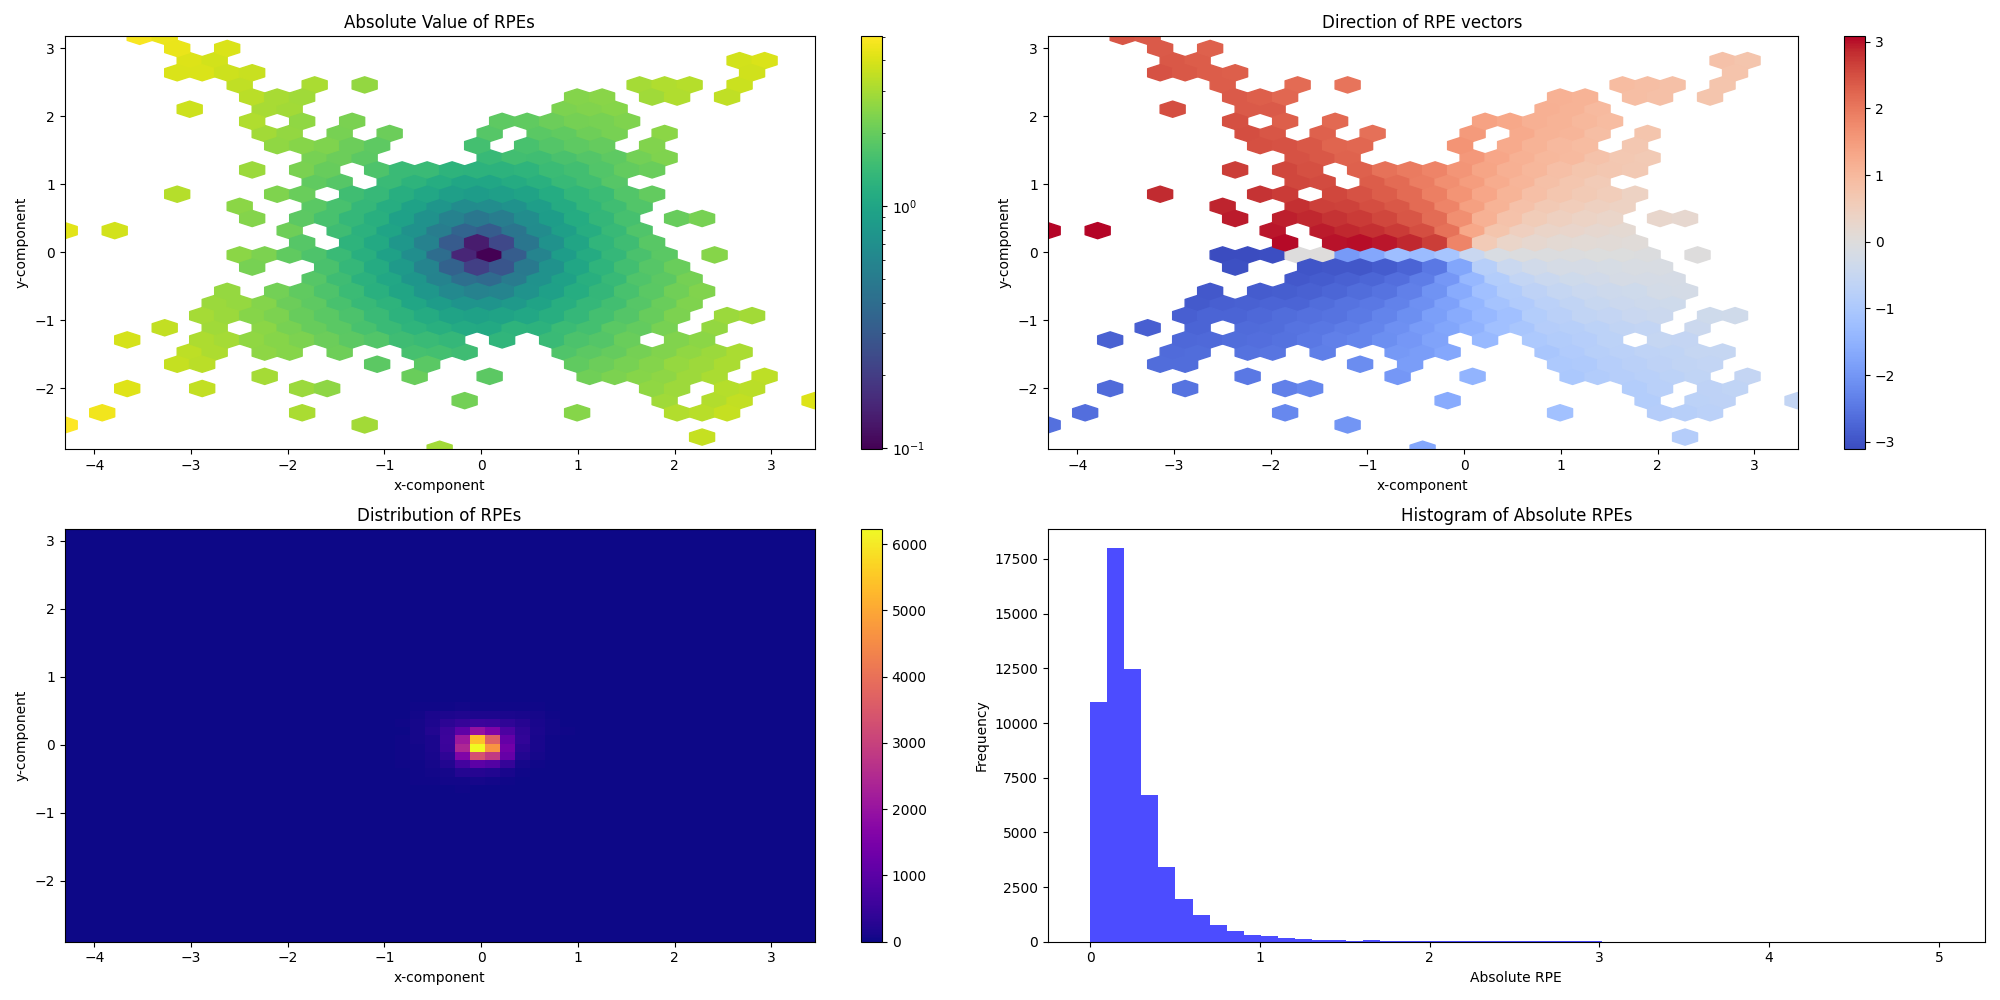
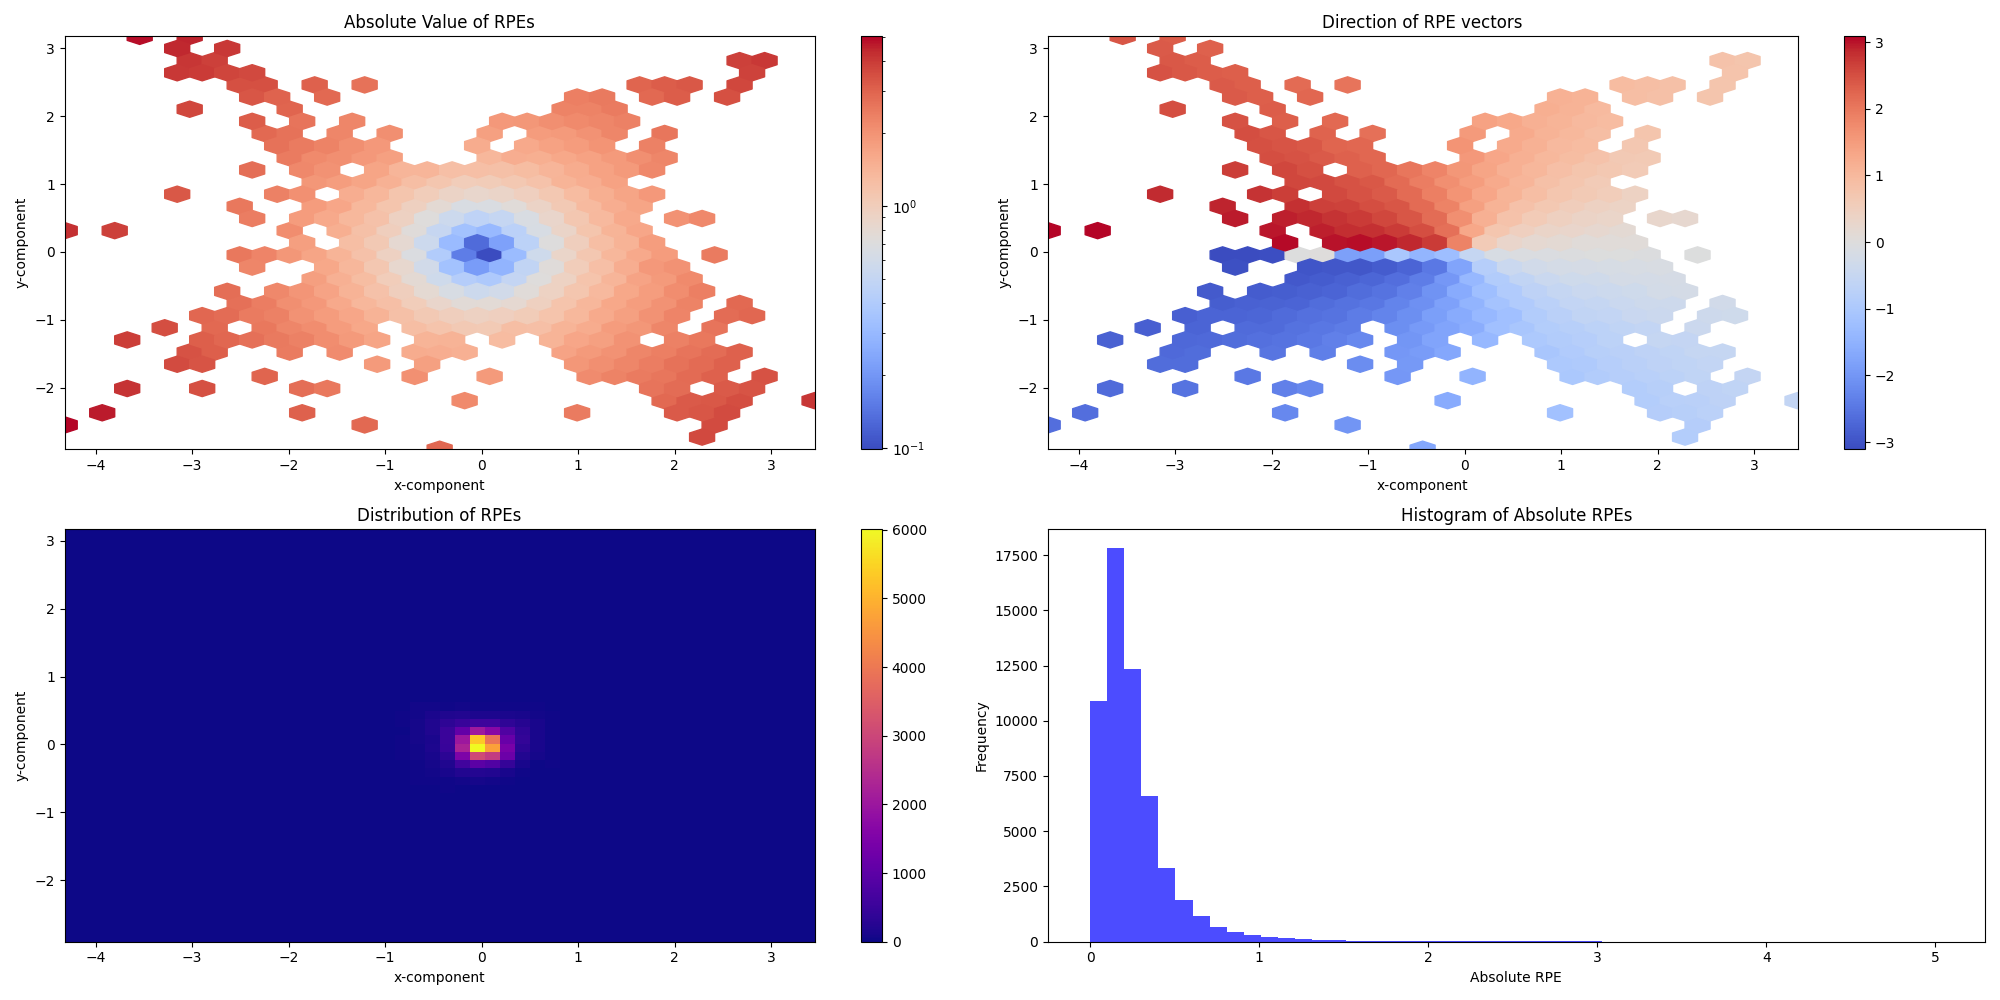
remove blurry img, remove some plotting functionality, svae new results

diff --git a/caliberation.py b/caliberation.py
@@ -4,6 +4,7 @@ import numpy as np
 import cv2 as cv
 import glob
 import matplotlib.pyplot as plt
+from datetime import datetime
 
 chessboardSize = (17, 28) # -1
 frameSize = (3976, 2652)
@@ -11,7 +12,11 @@ frameSize = (3976, 2652)
 #####CALIBERATION######
 
 # Termination criteria
-criteria = (cv.TERM_CRITERIA_EPS + cv.TERM_CRITERIA_MAX_ITER, 30, 0.001)
+#num of iteration: increase -> more refined results
+#num of epsilon: drecrease -> tightens the convergence criteria,refines the corner locations to a finer accuracy
+
+
+criteria = (cv.TERM_CRITERIA_EPS + cv.TERM_CRITERIA_MAX_ITER, 30, 0.001)  
 
 objp = np.zeros((chessboardSize[0] * chessboardSize[1], 3), np.float32)
 objp[:, :2] = np.mgrid[0:chessboardSize[0], 0:chessboardSize[1]].T.reshape(-1, 2)
@@ -21,16 +26,20 @@ objp *= size_of_chessboard_squares_mm
 objpoints = []  # 3D point in real world space
 imgpoints = []  # 2D points in image plane
 
-images = glob.glob('rechts_8bit_jpg_DS_0.5/*.jpg') ##PATH
+images = glob.glob('links_8bit_jpg_DS_0.5/*.jpg') ##PATH
 
 for image in images:
     img = cv.imread(image)
     gray = cv.cvtColor(img, cv.COLOR_BGR2GRAY)
 
+    # gray = cv.equalizeHist(gray)  # Equalize histogram to enhance contrast
+    # gray = cv.GaussianBlur(gray, (5, 5), 0) #Reduce noise
+
     ret, corners = cv.findChessboardCorners(gray, chessboardSize, None)
 
     if ret:
         objpoints.append(objp)
+        #subpixel
         corners2 = cv.cornerSubPix(gray, corners, (11, 11), (-1, -1), criteria)
         imgpoints.append(corners)
 
@@ -42,20 +51,37 @@ cv.destroyAllWindows()
 
 ret, cameraMatrix, dist, rvecs, tvecs = cv.calibrateCamera(objpoints, imgpoints, frameSize, None, None)
 
-# save camera calibration result as XML
-fs = cv.FileStorage("calibration.xml", cv.FILE_STORAGE_WRITE)
-fs.write("camera_matrix", cameraMatrix)
-fs.write("distortion_coefficients", dist)
-fs.write("image_height", frameSize[1])
-fs.write("image_width", frameSize[0])
-fs.release()
+#print("Distortion Coefficients Shape:", dist.shape)
+#print("Distortion Coefficients:", dist)
 
+# WRITE XML
+current_date = datetime.now().strftime("%Y-%m-%d")
+
+fs = cv.FileStorage("calibration.xml", cv.FILE_STORAGE_WRITE)
+fs.write("calibration_date", current_date)
+fs.startWriteStruct("camera_matrix", cv.FileNode_MAP)
+# Intrinsic Parameters
+fs.write("fx", cameraMatrix[0, 0]) # focal length of camera, x (pixel unit)
+fs.write("fy", cameraMatrix[1, 1]) # focal length of camera, y (pixel unit)
+fs.write("cx", cameraMatrix[0, 2]) # optical center coordinates of camera, x (pixel unit)
+fs.write("cy", cameraMatrix[1, 2]) # optical center coordinates of camera, y (pixel unit)
+fs.endWriteStruct()
+
+fs.startWriteStruct("distortion_coefficients", cv.FileNode_MAP)
+fs.write("k1", dist[0, 0]) #radial distortion coefficients
+fs.write("k2", dist[0, 1]) #radial distortion coefficients
+fs.write("k3", dist[0, 4]) #radial distortion coefficients, correction for severe distortion
+fs.write("p1", dist[0, 2]) #tangential distortion coefficients
+fs.write("p2", dist[0, 3]) #tangential distortion coefficients
+fs.endWriteStruct()
+
+fs.write("image_height", 3976)
+fs.write("image_width", 2652)
+
+fs.release()
 
 print("Camera matrix:\n", cameraMatrix)
 print("Distortion coefficients:\n", dist.flatten())
-
-# distortion coefficients 
-print("Distortion coefficients:", dist.flatten())
 
 # compute reprojection error
 def compute_reprojection_error(objpoints, imgpoints, cameraMatrix, dist,rvecs,tvecs):
@@ -82,7 +108,7 @@ print("Reprojection error:", reprojection_error)
 plt.figure(figsize=(10, 6))
 plt.plot(errors, marker='o', linestyle='',label='Individuel Reprojection Error')
 plt.axhline(y=reprojection_error, color='r', linestyle='-', label='Mean Reprojection Error')
-plt.title('Residual Plot: RPE')
+plt.title('RPE')
 plt.xlabel('Image Index')
 plt.ylabel('Reprojection Error')
 plt.legend()
@@ -90,63 +116,6 @@ plt.grid(True)
 plt.savefig('residual_plot_rpe.png')
 plt.show()
 
-h, w = frameSize
-
-y, x = np.mgrid[0:h:1, 0:w:1].astype(np.float32)
-pixel_grid = np.column_stack((x.ravel(), y.ravel()))
-
-pixel_grid = pixel_grid.reshape(-1, 1, 2)
-normalized_grid = cv.undistortPoints(pixel_grid, cameraMatrix, dist, None, cameraMatrix)
-
-map_x, map_y = normalized_grid[:,0,0], normalized_grid[:,0,1]
-map_x = map_x.reshape(h, w)
-map_y = map_y.reshape(h, w)
-
-fig, ax = plt.subplots(figsize=(10, 6))
-
-
-spacing = 100 
-for i in range(0, h, spacing):
-    ax.plot(range(w), [i] * w, color='blue', linestyle='--')  # horizontal lines, distorted
-for j in range(0, w, spacing):
-    ax.plot([j] * h, range(h), color='blue', linestyle='--')  # vertical lines
-
-#undistorted grid lines
-for i in range(0, h, spacing):
-    ax.plot(map_x[i, :], map_y[i, :], color='red')  # horizontal lines, undistorted
-for j in range(0, w, spacing):
-    ax.plot(map_x[:, j], map_y[:, j], color='red')  # vertical lines
-
-ax.set_xlim([0, w])
-ax.set_ylim([h, 0])
-ax.set_title('Grid Distortion and Correction Comparison')
-ax.set_xlabel('u (along X axis with {} pixels)'.format(w))
-ax.set_ylabel('v (along Y axis with {} pixels)'.format(h))
-
-
-plt.savefig('distortion_visualization.png')
-plt.show()
-
-# Undistorted Image Comparison
-def compare_images(orig_img, undist_img):
-    fig, axs = plt.subplots(1, 2, figsize=(12, 6))
-    axs[0].imshow(cv.cvtColor(orig_img, cv.COLOR_BGR2RGB))
-    axs[0].set_title('Original Distorted Image')
-    axs[0].axis('off')
-    axs[1].imshow(cv.cvtColor(undist_img, cv.COLOR_BGR2RGB))
-    axs[1].set_title('Undistorted Image')
-    axs[1].axis('off')
-    plt.savefig('distortion_vs.undistortion_img.png')
-    plt.show()
-
-# Load distorted image
-distorted_img = cv.imread('rechts_8bit_jpg_DS_0.5/DSC00003_DS_0.5.jpg') ###PATH
-if distorted_img is None:
-    print("Error: Failed to load the image.")
-else:
-    # Undistort the image
-    undistorted_img = cv.undistort(distorted_img, cameraMatrix, dist)
-    compare_images(distorted_img, undistorted_img)
 
 # compute_reprojection_error to return detailed error components for x and y for coefficient calculation
 def compute_detailed_reprojection_error(objpoints, imgpoints, cameraMatrix, dist):
@@ -177,9 +146,9 @@ def visualize_rpes(error_x, error_y):
 
     plt.figure(figsize=(20, 10))
 
-    # Absolute Value of RPEs
+    # absolute Value of RPEs
     ax1 = plt.subplot(2, 2, 1)
-    hb1 = plt.hexbin(error_x, error_y, C=error_magnitude, gridsize=30, cmap='viridis', bins='log')
+    hb1 = plt.hexbin(error_x, error_y, C=error_magnitude, gridsize=30, cmap='coolwarm', bins='log')
     plt.colorbar(hb1, ax=ax1)
     plt.title('Absolute Value of RPEs')
     plt.xlabel('x-component')
@@ -187,7 +156,7 @@ def visualize_rpes(error_x, error_y):
     ax1.set_xlim([min(error_x), max(error_x)])
     ax1.set_ylim([min(error_y), max(error_y)])
 
-    # Direction of RPE Vectors
+    # direction of RPE Vectors
     ax2 = plt.subplot(2, 2, 2)
     hb2 = plt.hexbin(error_x, error_y, C=error_direction, gridsize=30, cmap='coolwarm')
     plt.colorbar(hb2, ax=ax2)
@@ -197,7 +166,7 @@ def visualize_rpes(error_x, error_y):
     ax2.set_xlim([min(error_x), max(error_x)])
     ax2.set_ylim([min(error_y), max(error_y)])
 
-    # Distribution of RPEs
+    # distribution of RPEs
     ax3 = plt.subplot(2, 2, 3)
     hb3 = plt.hist2d(error_x, error_y, bins=50, cmap='plasma')
     plt.colorbar(hb3[3], ax=ax3)
@@ -207,7 +176,7 @@ def visualize_rpes(error_x, error_y):
     ax3.set_xlim([min(error_x), max(error_x)])
     ax3.set_ylim([min(error_y), max(error_y)])
 
-    # Histogram of Absolute RPEs
+    # histogram of Absolute RPEs
     ax4 = plt.subplot(2, 2, 4)
     plt.hist(error_magnitude, bins=50, color='blue', alpha=0.7)
     plt.title('Histogram of Absolute RPEs')
@@ -219,52 +188,3 @@ def visualize_rpes(error_x, error_y):
 
 visualize_rpes(error_x, error_y)
 
-#####VISUALIZATION COEFFICIENTS#####
-
-fs_read = cv.FileStorage("calibration.xml", cv.FILE_STORAGE_READ)
-cameraMatrix = fs_read.getNode("camera_matrix").mat()
-distCoeffs = fs_read.getNode("distortion_coefficients").mat()
-fs_read.release()
-
-
-print("Camera matrix:\n", cameraMatrix)
-print("Distortion coefficients:\n", distCoeffs.flatten())
-
-# grid of points
-step = 20
-w, h = 3976, 2652 
-x, y = np.meshgrid(range(0, w, step), range(0, h, step))
-pts = np.vstack((x.flatten(), y.flatten())).astype(np.float32).T
-
-
-def draw_grid(img, pts, color=(255,0, 0)):  #green
-    for i in range(pts.shape[0]):
-        pt = tuple(pts[i].astype(int))
-        cv.circle(img, pt, 3, color, -1)
-
-original_distCoeffs = distCoeffs.flatten()
-
-coeff_sets = [original_distCoeffs,  # Original coefficients
-              np.array([original_distCoeffs[0], original_distCoeffs[1], 0, 0, 0]), #radial distortion
-              ]
-for idx, coeffs in enumerate(coeff_sets):
-   
-    img = np.zeros((h, w, 3), dtype=np.uint8)
-
-
-    draw_grid(img, pts, color=(255, 255, 255))  # Original grid in blue
-
-    # apply distortion/undistortion to get the new grid points
-    pts_distorted = cv.undistortPoints(np.expand_dims(pts, axis=1), cameraMatrix, coeffs, None, cameraMatrix)
-    pts_distorted = pts_distorted.reshape(-1, 2)
-
-    # distorted/undistorted grid in blue
-    draw_grid(img, pts_distorted, color=(0, 0, 255))  # Distorted/Undistorted grid in red
-
-    coeffs_str = '_'.join([f"{c:.2e}" for c in coeffs]).replace('.', 'p').replace('-', 'm').replace('+', '')
-    plt.figure(figsize=(8, 6))
-    plt.imshow(img)
-    plt.title(f"Distortion with coefficients: {coeffs}")
-    plt.axis('off')
-    plt.savefig(f'distortion_visualization_{idx}_{coeffs_str}.png')
-    plt.close()
